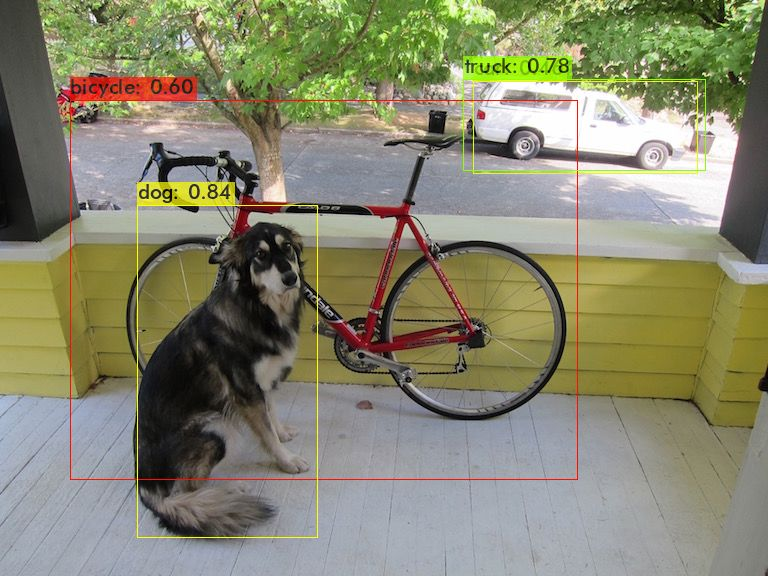
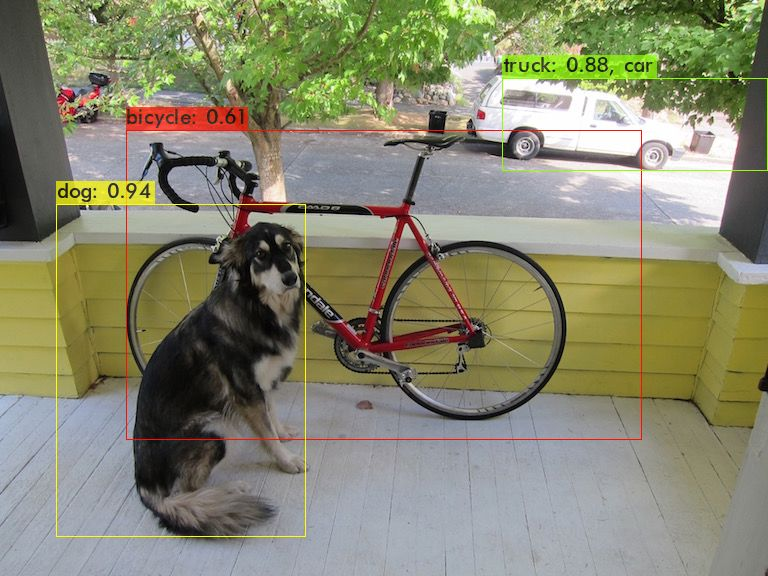
Combine Detector with Classifier

diff --git a/src/detector.c b/src/detector.c
@@ -1633,6 +1633,9 @@ void test_detector(char *datacfg, char *cfgfile, char *weightfile, char *filenam
     int names_size = 0;
     char **names = get_labels_custom(name_list, &names_size); //get_labels(name_list);
 
+    char *target_model = "yolo";
+    int object_detection = strstr(cfgfile, target_model);
+
     image **alphabet = load_alphabet();
     network net = parse_network_cfg_custom(cfgfile, 1, 1); // set batch=1
     if (weightfile) {
@@ -1642,7 +1645,7 @@ void test_detector(char *datacfg, char *cfgfile, char *weightfile, char *filenam
     net.benchmark_layers = benchmark_layers;
     fuse_conv_batchnorm(net);
     calculate_binary_weights(net);
-    if (net.layers[net.n - 1].classes != names_size) {
+    if (object_detection && net.layers[net.n - 1].classes != names_size) {
         printf("\n Error: in the file %s number of names %d that isn't equal to classes=%d in the file %s \n",
             name_list, names_size, net.layers[net.n - 1].classes, cfgfile);
         if (net.layers[net.n - 1].classes > names_size) getchar();
@@ -1679,9 +1682,8 @@ void test_detector(char *datacfg, char *cfgfile, char *weightfile, char *filenam
         //image im;
         //image sized = load_image_resize(input, net.w, net.h, net.c, &im);
         image im = load_image(input, 0, 0, net.c);
-        image sized;
-        if(letter_box) sized = letterbox_image(im, net.w, net.h);
-        else sized = resize_image(im, net.w, net.h);
+        image resized = resize_min(im, net.w);
+        image cropped = crop_image(resized, (resized.w - net.w)/2, (resized.h - net.h)/2, net.w, net.h);
 
         layer l = net.layers[net.n - 1];
         int k;
@@ -1697,22 +1699,41 @@ void test_detector(char *datacfg, char *cfgfile, char *weightfile, char *filenam
         //float **probs = calloc(l.w*l.h*l.n, sizeof(float*));
         //for(j = 0; j < l.w*l.h*l.n; ++j) probs[j] = (float*)xcalloc(l.classes, sizeof(float));
 
-        float *X = sized.data;
+        float *X = cropped.data;
 
         //time= what_time_is_it_now();
         double time = get_time_point();
-        network_predict(net, X);
+        float *predictions = network_predict(net, X);
         //network_predict_image(&net, im); letterbox = 1;
         printf("%s: Predicted in %lf milli-seconds.\n", input, ((double)get_time_point() - time) / 1000);
         //printf("%s: Predicted in %f seconds.\n", input, (what_time_is_it_now()-time));
 
         int nboxes = 0;
-        detection *dets = get_network_boxes(&net, im.w, im.h, thresh, hier_thresh, 0, 1, &nboxes, letter_box);
-        if (nms) {
-            if (l.nms_kind == DEFAULT_NMS) do_nms_sort(dets, nboxes, l.classes, nms);
-            else diounms_sort(dets, nboxes, l.classes, nms, l.nms_kind, l.beta_nms);
+        detection *dets;
+
+        int top = 5;
+        int i;
+        int index;
+        int* indexes = (int*)xcalloc(top, sizeof(int));
+
+        if (object_detection) {
+            dets = get_network_boxes(&net, im.w, im.h, thresh, hier_thresh, 0, 1, &nboxes, letter_box);
+            if (nms) {
+                if (l.nms_kind == DEFAULT_NMS) do_nms_sort(dets, nboxes, l.classes, nms);
+                else diounms_sort(dets, nboxes, l.classes, nms, l.nms_kind, l.beta_nms);
+            }
+            draw_detections_v3(im, dets, nboxes, thresh, names, alphabet, l.classes, ext_output);
         }
-        draw_detections_v3(im, dets, nboxes, thresh, names, alphabet, l.classes, ext_output);
+        else {
+            if(net.hierarchy) hierarchy_predictions(predictions, net.outputs, net.hierarchy, 0);
+            top_k(predictions, net.outputs, top, indexes);
+            for(i = 0; i < top; ++i){
+                index = indexes[i];
+                if(net.hierarchy) printf("%d, %s: %f, parent: %s \n",index, names[index], predictions[index], (net.hierarchy->parent[index] >= 0) ? names[net.hierarchy->parent[index]] : "Root");
+                else printf("%s: %f\n",names[index], predictions[index]);
+            }
+        }
+
         save_image(im, "predictions");
         if (!dont_show) {
             show_image(im, "predictions");
@@ -1758,7 +1779,7 @@ void test_detector(char *datacfg, char *cfgfile, char *weightfile, char *filenam
 
         free_detections(dets, nboxes);
         free_image(im);
-        free_image(sized);
+        free_image(cropped);
 
         if (!dont_show) {
             wait_until_press_key_cv();
